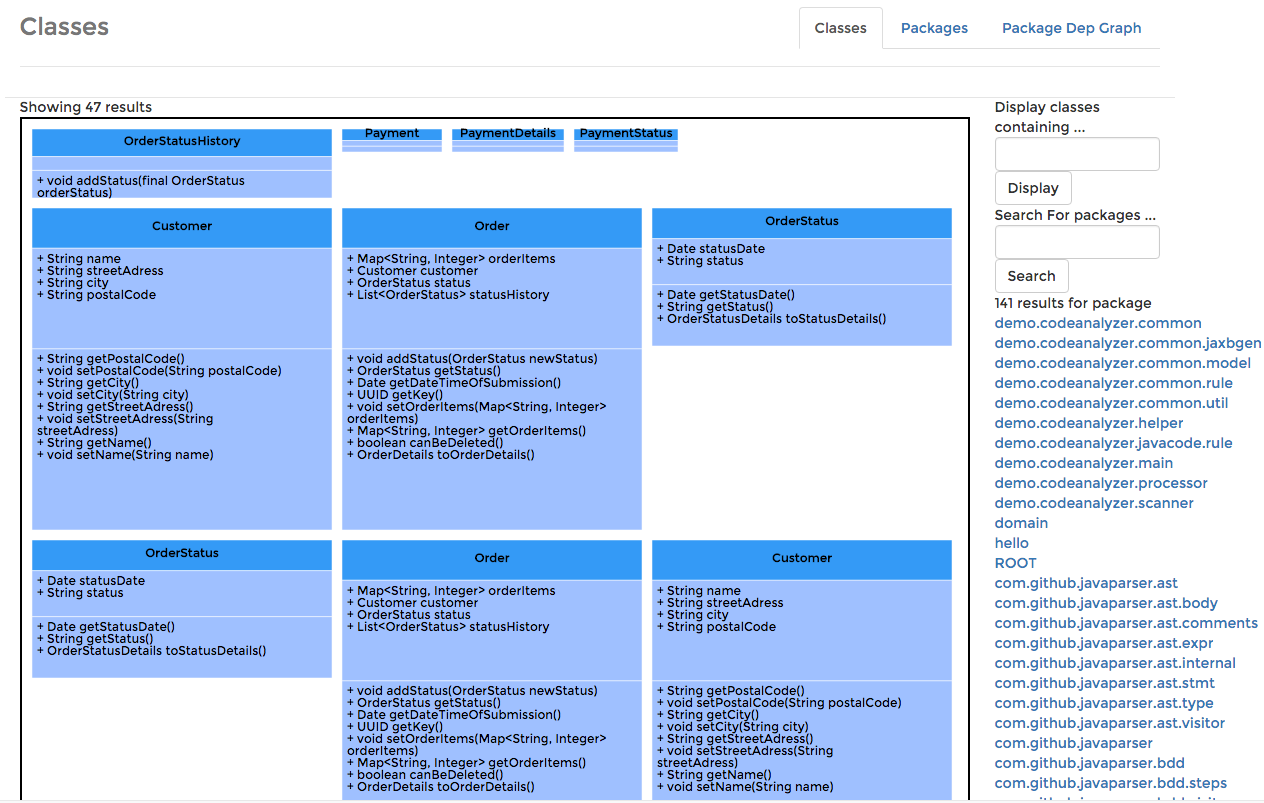
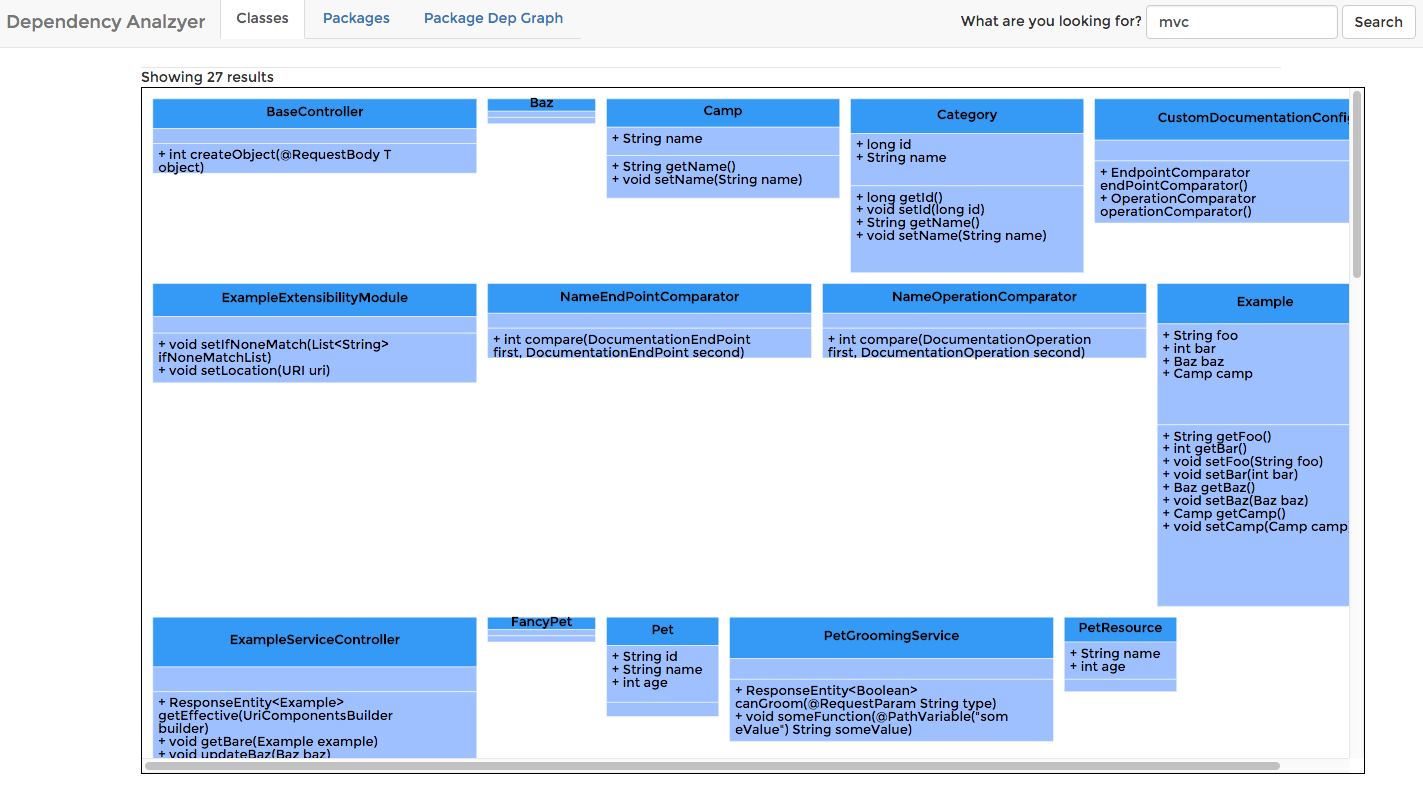
Finished moving class diagram search functionality to top nav.  You can now search on a term in the nav, a modal overlay with come up with text results, and there is also a button to display those results in the form of uml class diagrams. closes #14

diff --git a/app/scripts/classdiagrams.js b/app/scripts/classdiagrams.js
@@ -10,17 +10,7 @@ var paper = new joint.dia.Paper({
 
 var uml = joint.shapes.uml;
 
-function searchDatabase(searchCriteria) {
-    $("#showingpackage").html("Showing package " + searchCriteria);
-
-    // The query
-    var query= {"statements":[{"statement":"MATCH (javaPackage:JavaPackage { name:'" + searchCriteria + "' })-[CONTAINS_CLASS]->(javaClass:JavaClass)  RETURN javaClass;",
-    "resultDataContents":["graph","row"]}]};
-    
-    displayForQuery(query);
-}
-
-function searchWithinClasses(searchCriteria) {
+function searchWithinClasses(searchCriteria, displayOnGraph) {
 
     //console.log("searching for: " + searchCriteria);
 
@@ -28,11 +18,11 @@ function searchWithinClasses(searchCriteria) {
     var query= {"statements":[{"statement":"MATCH (j:JavaClass) WHERE ANY(fullyQualifiedName IN j.fullyQualifiedName WHERE fullyQualifiedName  =~ '(?i).*" + searchCriteria + ".*') OR ANY(method IN j.publicMethods WHERE method  =~ '(?i).*" + searchCriteria + ".*') OR ANY(var IN j.privateInstanceVariables WHERE var  =~ '(?i).*" + searchCriteria + ".*') RETURN DISTINCT j;",
     "resultDataContents":["graph","row"]}]};
 
-    displayForQuery(query);
+    search(query, displayOnGraph);
 }
 
-// takes a given neo4j cypher query and displays the results as UML class diagrams
-function displayForQuery(query) {
+// takes a given neo4j cypher query and optionally displays the results as UML class diagrams
+function search(query, displayOnGraph) {
 
     // jQuery ajax call - http://stackoverflow.com/questions/29440613/return-the-graph-structure-of-a-neo4j-cypher-query-using-jquery
     var request = $.ajax({
@@ -45,48 +35,59 @@ function displayForQuery(query) {
         //now pass a callback to success to do something with the data
         success: function (data) {
               
-              var classes = [];
-              var largestHeight = 0;
+              if(displayOnGraph) {
+                  var classes = [];
+                  var largestHeight = 0;
 
-              //$.each(data.classes, function(index, element) {
-              $.each(data.results[0].data, function(index, element) {
+                  //$.each(data.classes, function(index, element) {
+                  $.each(data.results[0].data, function(index, element) {
 
-                    //console.log(element.name);
-                    
-                    element.row[0].publicMethods = transformToMultiline(element.row[0].publicMethods, 250);
-                    //console.log("publicMethods=" + element.row[0].publicMethods); 
+                        //console.log(element.name);
+                        
+                        element.row[0].publicMethods = transformToMultiline(element.row[0].publicMethods, 250);
+                        //console.log("publicMethods=" + element.row[0].publicMethods); 
 
-                    element.row[0].privateInstanceVariables = transformToMultiline(element.row[0].privateInstanceVariables, 250);
-                    //console.log("privateInstanceVariables=" + element.row[0].privateInstanceVariables);
+                        element.row[0].privateInstanceVariables = transformToMultiline(element.row[0].privateInstanceVariables, 250);
+                        //console.log("privateInstanceVariables=" + element.row[0].privateInstanceVariables);
 
-                    var calculatedWidth = calcMaxWidthForClass(element.row[0]);
-                    var calculatedHeight = calcMaxHeightForClass(element.row[0]);
-                    if(calculatedHeight > largestHeight) {
-                        largestHeight = calculatedHeight;
-                    }
+                        var calculatedWidth = calcMaxWidthForClass(element.row[0]);
+                        var calculatedHeight = calcMaxHeightForClass(element.row[0]);
+                        if(calculatedHeight > largestHeight) {
+                            largestHeight = calculatedHeight;
+                        }
 
-                    var newClass
-                        = new uml.Class({
-                            size: { width: calculatedWidth, height: calculatedHeight },
-                            name : element.row[0].name,
-                            attributes : element.row[0].privateInstanceVariables,
-                            methods : element.row[0].publicMethods, 
-                            fullyQualifiedName : element.row[0].fullyQualifiedName
-                        });
+                        var newClass
+                            = new uml.Class({
+                                size: { width: calculatedWidth, height: calculatedHeight },
+                                name : element.row[0].name,
+                                attributes : element.row[0].privateInstanceVariables,
+                                methods : element.row[0].publicMethods, 
+                                fullyQualifiedName : element.row[0].fullyQualifiedName
+                            });
 
-                        classes.push(newClass);
+                            classes.push(newClass);
 
-                });
+                    });
 
-                graph.resetCells(classes);
+                    graph.resetCells(classes);
 
-                joint.layout.SimpleFitLayout.layout(graph, {
+                    joint.layout.SimpleFitLayout.layout(graph, {
 
-                });
+                    });
 
-                paper.fitToContent();
+                    paper.fitToContent();
 
-                $("#showingpackage").html("Showing " + classes.length + " results");
+                    $("#showingpackage").html("Showing " + classes.length + " results");
+                } else {
+                    // display in search results
+                    $("#searchresults").html("<div>Showing " + data.results[0].data.length + " results for '" + $("#classsearchinput").val() + "'" + "</div><table class='table table-hover'><thead><tr><th>Class</th><th>Fully Qualified Classname</th></tr></thead><tbody>");
+
+                    $.each(data.results[0].data, function(index, element) {
+                        $("#searchresults").append("<tr><td>" + element.row[0].name + "</td><td>" + element.row[0].fullyQualifiedName + "</td></tr>");
+                    });
+
+                    $("#searchresults").append("</tbody></table>");
+                }
 
         }
     });
@@ -99,6 +100,73 @@ function displayForQuery(query) {
       alert( "Request failed: " + textStatus );
     });
 }
+
+/**
+// given searchCriteria, searches neo4j for any package containing that criteria and displays 
+// linkable search results below the search input
+function searchPackages(searchCriteria) {
+
+    // clear existing results
+    $("#searchresults").html("");
+
+    // The query
+    var query= {"statements":[{"statement":"MATCH (n:JavaPackage) WHERE n.name CONTAINS '" + searchCriteria + "' RETURN n",
+    "resultDataContents":["row"]}]};
+
+    // jQuery ajax call - http://stackoverflow.com/questions/29440613/return-the-graph-structure-of-a-neo4j-cypher-query-using-jquery
+    var request = $.ajax({
+        type: "POST",
+        url: "http://localhost:7474/db/data/transaction/commit",
+        accepts: { json: "application/json" },
+        dataType: "json",
+        contentType:"application/json",
+        data: JSON.stringify(query),
+        //now pass a callback to success to do something with the data
+        success: function (data) {
+                //console.log("package search results:");
+                //console.log(data);
+                $("#searchresults").append(data.results[0].data.length + " results for package " + searchCriteria + "<br/>");
+
+                $.each(data.results[0].data, function(index, element) {
+
+                    //console.log(element.row[0]);
+                    $("#searchresults").append("<a class='packagesearchlink'>" + element.row[0].name + "</a><br/>");
+                });
+
+                $(".packagesearchlink").click(function(event) {
+                    event.preventDefault();
+                    var text = $(event.target).text();
+                    searchDatabase(text);
+                });
+        }
+    });
+
+    request.done(function(data) {
+
+    });
+
+    request.fail(function(jqXHR, textStatus) {
+      alert( "Request failed: " + textStatus );
+    });
+}
+*/
+
+$("#searchsubmit").click(function () {
+    searchWithinClasses($("#classsearchinput").val(), false);
+    $("#search").slideDown(300);
+});
+
+$("#closesearch").click(function () {
+    $("#search").slideUp(200);
+});
+
+$("#showindiagram").click(function () {
+    searchWithinClasses($("#classsearchinput").val(), true);
+    $("#search").slideUp(200);
+});
+
+$('#classsearchinput').tooltip();
+
 
 // Given an array of Strings, transform it nito a new array of Strings 
 // where the length of any one array element does not exceed the width limit
@@ -231,67 +299,6 @@ paper.on('cell:pointerdblclick ',
     }
 );
 
-// given searchCriteria, searches neo4j for any package containing that criteria and displays 
-// linkable search results below the search input
-function searchPackages(searchCriteria) {
-
-    // clear existing results
-    $("#searchresults").html("");
-
-    // The query
-    var query= {"statements":[{"statement":"MATCH (n:JavaPackage) WHERE n.name CONTAINS '" + searchCriteria + "' RETURN n",
-    "resultDataContents":["row"]}]};
-
-    // jQuery ajax call - http://stackoverflow.com/questions/29440613/return-the-graph-structure-of-a-neo4j-cypher-query-using-jquery
-    var request = $.ajax({
-        type: "POST",
-        url: "http://localhost:7474/db/data/transaction/commit",
-        accepts: { json: "application/json" },
-        dataType: "json",
-        contentType:"application/json",
-        data: JSON.stringify(query),
-        //now pass a callback to success to do something with the data
-        success: function (data) {
-                //console.log("package search results:");
-                //console.log(data);
-                $("#searchresults").append(data.results[0].data.length + " results for package " + searchCriteria + "<br/>");
-
-                $.each(data.results[0].data, function(index, element) {
-
-                    //console.log(element.row[0]);
-                    $("#searchresults").append("<a class='packagesearchlink'>" + element.row[0].name + "</a><br/>");
-                });
-
-                $(".packagesearchlink").click(function(event) {
-                    event.preventDefault();
-                    var text = $(event.target).text();
-                    searchDatabase(text);
-                });
-        }
-    });
-
-    request.done(function(data) {
-
-    });
-
-    request.fail(function(jqXHR, textStatus) {
-      alert( "Request failed: " + textStatus );
-    });
-}
-
-$("#packagesearchbutton").click(function() {
-    searchPackages($("#packagesearchinput").val());
-});
-
-// initially load the page with a package listing
-searchPackages("");
-
-$("#classsearchbutton").click(function() {
-    searchWithinClasses($("#classsearchinput").val());
-});
-
-
-
 // use this to do something upon right click like 
 // pop up a modal
 // http://jointjs.com/api#joint.dia.Paper%3aevents
@@ -332,13 +339,7 @@ function offsetToLocalPoint(x, y) {
 
 paper.$el.on('mousewheel DOMMouseScroll', onMouseWheel);
 
-$("#searchsubmit").click(function () {
-    $("#search").slideDown(300);
-});
 
-$("#closesearch").click(function () {
-    $("#search").slideUp(200);
-});
 
 
 

diff --git a/app/index.html b/app/index.html
@@ -34,31 +34,27 @@
     <![endif]-->
 
     <nav class="navbar navbar-default navbar-fixed-top">
-      <ul class="nav nav-tabs pull-right">
-          <li class="active"><a href="index.html">Classes</a></li>
-          <li><a href="packages.html">Packages</a></li>
-          <li><a href="packagedeps.html">Package Dep Graph</a></li>
-      </ul>
       
-      <form class="navbar-form navbar-left" role="search">
+      <span class="navbar-brand">Dependency Analzyer</span>
+      <ul class="nav nav-tabs pull-left">
+        <li class="active"><a href="index.html">Classes</a></li>
+        <li><a href="packages.html">Packages</a></li>
+        <li><a href="packagedeps.html">Package Dep Graph</a></li>
+      </ul>
+      <form id="navsearch" class="navbar-form navbar-right" role="search">
         <div class="form-group">
           What are you looking for?  
-          <input type="text" class="form-control" placeholder="Search">
+          <input type="text" class="form-control" id="classsearchinput" placeholder="Search" data-toggle="tooltip" data-placement="bottom" title="Searches across fully qualified class names, instance variables, and methods">
+          <button type="button" id="searchsubmit" class="btn btn-default">Search</button>
         </div>
-        <button type="button" id="searchsubmit" class="btn btn-default">Search</button>
       </form>
+
+
     </nav>
     <div class="container">
       <div id="search">
-        
-        <form class="form-horizontal">
-          <div id="closesearch">Close</div>
-          Display classes containing ...
-          <input type="text" class="form-control" id="classsearchinput" value=""/><button type="button" id="classsearchbutton" class="btn btn-default">Display</button><br/>
-          Search For packages ...
-          <input type="text" class="form-control" id="packagesearchinput" value=""/><button type="button" id="packagesearchbutton" class="btn btn-default">Search</button><br/>
-          
-        </form>
+        <button type="button" id="closesearch" class="btn btn-danger">Close</button>
+        <button type="button" id="showindiagram" class="btn btn-primary">Show in class diagram</button>
         <div id="searchresults"></div>
       </div>
 

diff --git a/app/styles/main.scss b/app/styles/main.scss
@@ -141,5 +141,16 @@ body {
     float:right;
     margin-right:2%;
   }
+  #showindiagram {
+    float:right;
+  }
 
+  td {
+    padding-left: 10px;
+    padding-right: 10px;
+  }
+
+  #navsearch {
+    padding-right: 30px;
+  }
 }

diff --git a/app/scripts/packages.js b/app/scripts/packages.js
@@ -1,3 +1,4 @@
+
 function displayPackageListing() {
 
     // The query

diff --git a/README.md b/README.md
@@ -4,9 +4,7 @@ Browser based application to view Java source code analysis in the form of class
 The UI is very rough and sloppy at this point - I'm not an experienced JS developer so it's pretty hacky.  Getting better at JS is on the TODO list :)
 
 ![Alt text](screenshots/classdiagrams.png?raw=true "sample generated class diagrams for neo4j database")
+![Alt text](screenshots/classdiagramsearch.png?raw=true "class diagram search")
 ![Alt text](screenshots/packagedepgraph.png?raw=true "sample package dependency graph using alchemy.js and neo4j database")
 ![Alt text](screenshots/packagelisting.png?raw=true "sample package listing using neo4j database")
-
-# TODO
-* Fix layout of class diagrams - some are overlapping
 
